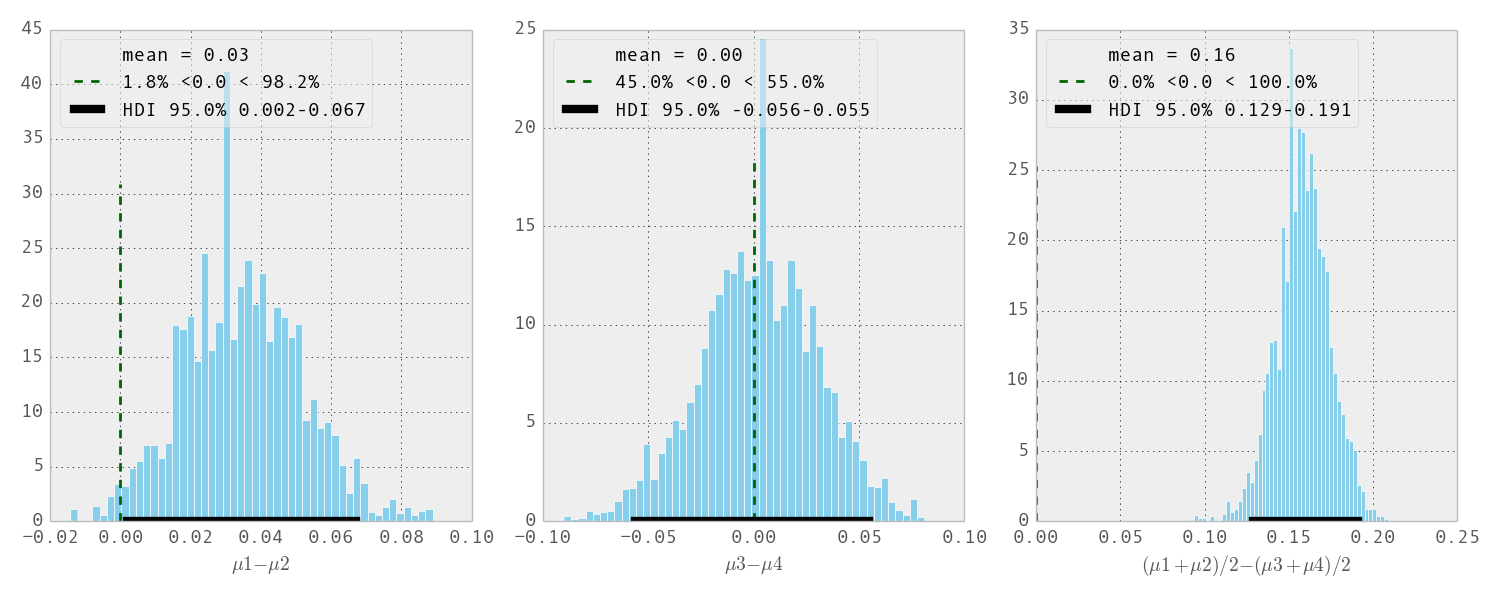
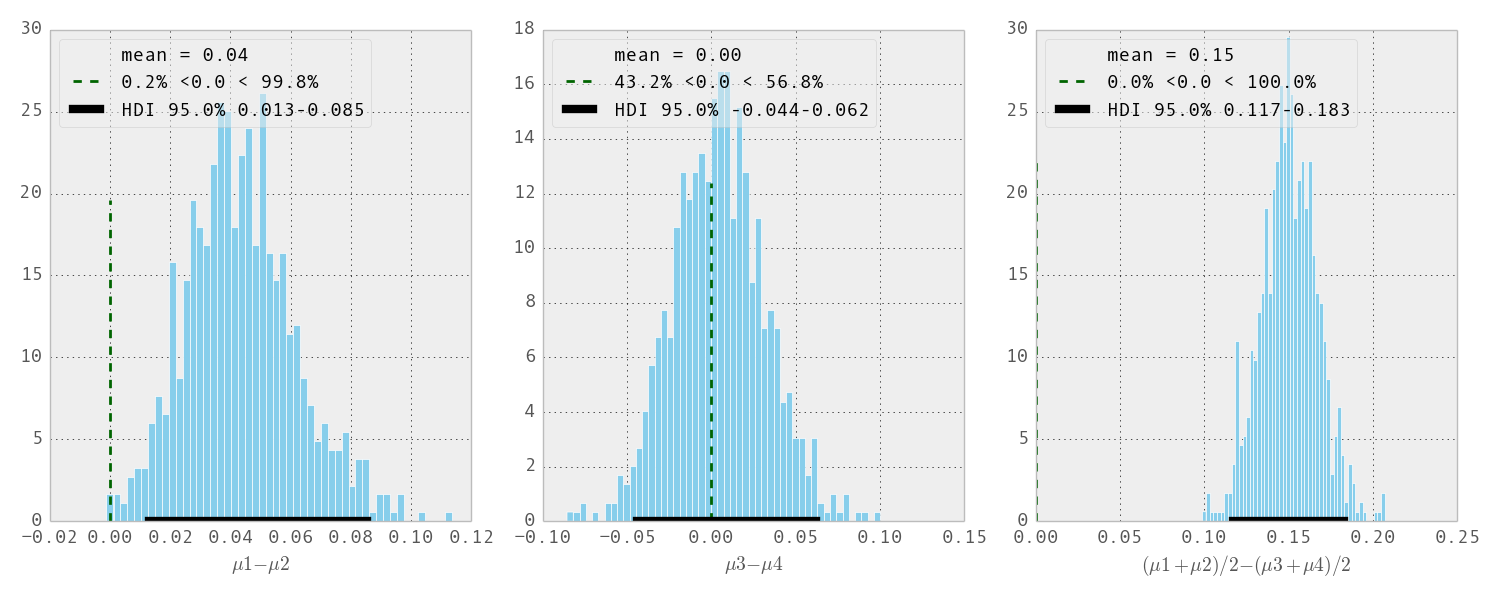
update

diff --git a/09_BernBetaMuKappaPyMC.py b/09_BernBetaMuKappaPyMC.py
@@ -1,11 +1,10 @@
 """
 Bernoulli Likelihood with Hierarchical Prior!
 """
-from __future__ import division
 import numpy as np
 import pymc as pm
 import sys
-from scipy.stats import beta, gamma
+from scipy.stats import beta, binom
 import matplotlib.pyplot as plt
 from plot_post import plot_post
 
@@ -16,6 +15,16 @@ z =  [5, 5, 5]  # Number of heads per coin
 ## Data for figure 9.12
 #N =  [10, 10, 10]  # Number of flips per coin
 #z =  [1, 5, 9]  # Number of heads per coin
+
+## Data for exercise 9.1
+#ncoins = 50
+#nflipspercoin = 5
+#mu_act = .7
+#kappa_act = 20
+#theta_act = beta.rvs(mu_act*kappa_act+1, (1-mu_act)*kappa_act+1, size=ncoins)
+#z = binom.rvs(n=nflipspercoin, p=theta_act, size=ncoins)
+#N = [nflipspercoin] * ncoins
+
 
 # Arrange the data into a more convenient way to feed the PyMC model.
 coin = []  # list/vector index for each coins (from 0 to number of coins)
@@ -40,8 +49,8 @@ with pm.Model() as model:
     y = pm.Bernoulli('y', p=theta[coin], observed=y)
 
 #   Generate a MCMC chain
-    step = pm.Metropolis()
-    trace = pm.sample(5000, step, progressbar=False)
+#    step = pm.Metropolis()
+#    trace = pm.sample(5000, step, progressbar=False)
 #   Restricted models like this could be difficult to sample. This is related 
 #   to the censoring comment in the book. One way to detect that something is 
 #   wrong with the sampling is to compare the autocorrelation plot and the 
@@ -51,24 +60,28 @@ with pm.Model() as model:
 #    step2 = pm.Slice([kappa])
 #    trace = pm.sample(5000, [step1, step2], progressbar=False)
 #    or this (this combination was used to generate the figures)
+    start = pm.find_MAP()
     step1 = pm.Metropolis([theta, mu])
     step2 = pm.NUTS([kappa])
-    trace = pm.sample(5000, [step1, step2], progressbar=False)
+    trace = pm.sample(5000, [step1, step2], start=start, progressbar=False)
 
 ## Check the results.
-
-## Print summary for each trace
-#pm.summary(trace)
-
-## Check for mixing and autocorrelation:
-pm.autocorrplot(trace, vars =[mu, kappa])
-
-## Plot KDE and sampled values for each parameter.
-pm.traceplot(trace)
-
-# Create arrays with the posterior sample
 burnin = 2000  # posterior samples to discard
 thin = 10  # posterior samples to discard
+
+## Print summary for each trace
+#pm.summary(trace[burnin::thin])
+#pm.summary(trace)
+
+## Check for mixing and autocorrelation
+pm.autocorrplot(trace[burnin::thin], vars =[mu, kappa])
+#pm.autocorrplot(trace, vars =[mu, kappa])
+
+## Plot KDE and sampled values for each parameter.
+pm.traceplot(trace[burnin::thin])
+#pm.traceplot(trace)
+
+# Create arrays with the posterior sample
 theta1_sample = trace['theta'][:,0][burnin::thin]
 theta2_sample = trace['theta'][:,1][burnin::thin]
 theta3_sample = trace['theta'][:,2][burnin::thin]

diff --git a/09_FilconPyMC.py b/09_FilconPyMC.py
@@ -1,11 +1,9 @@
 """
 More Hierarchical models. The filtration-condensation experiment.
 """
-from __future__ import division
 import numpy as np
 import pymc as pm
 import sys
-from scipy.stats import beta,  gamma
 import matplotlib.pyplot as plt
 from plot_post import plot_post
 
@@ -47,14 +45,30 @@ for condition in range(0, ncond):
         start = pm.find_MAP()
         step1 = pm.Metropolis([theta, mu])
         step2 = pm.NUTS([kappa])
-        trace = pm.sample(5000, [step1, step2], start=start, progressbar=False)
+        trace = pm.sample(10000, [step1, step2], start=start, progressbar=False)
     trace_per_condition.append(trace)
 
+## Check the results.
+burnin = 2000  # posterior samples to discard
+thin = 10  # posterior samples to discard
 
-mu1_sample = trace_per_condition[0]['mu']
-mu2_sample = trace_per_condition[1]['mu']
-mu3_sample = trace_per_condition[2]['mu']
-mu4_sample = trace_per_condition[3]['mu']
+## Print summary for each trace
+#pm.summary(trace[burnin::thin])
+#pm.summary(trace)
+
+## Check for mixing and autocorrelation
+pm.autocorrplot(trace[burnin::thin], vars =[mu, kappa])
+#pm.autocorrplot(trace, vars =[mu, kappa])
+
+## Plot KDE and sampled values for each parameter.
+pm.traceplot(trace[burnin::thin])
+#pm.traceplot(trace)
+
+# Create arrays with the posterior sample
+mu1_sample = trace_per_condition[0]['mu'][burnin::thin]
+mu2_sample = trace_per_condition[1]['mu'][burnin::thin]
+mu3_sample = trace_per_condition[2]['mu'][burnin::thin]
+mu4_sample = trace_per_condition[3]['mu'][burnin::thin]
 
 
 fig = plt.figure(figsize=(15, 6))
@@ -75,3 +89,4 @@ plot_post(a, xlab=r'$(\mu1+\mu2)/2 - (\mu3+\mu4)/2$', show_mode=False, comp_val=
 plt.tight_layout()
 plt.savefig('Figure_9.16.png')
 plt.show()
+

diff --git a/09_BernBetaMuKappaPyMC_TT.py b/09_BernBetaMuKappaPyMC_TT.py
@@ -1,11 +1,9 @@
 """
 Bernoulli Likelihood with Hierarchical Prior. The Therapeutic Touch example.
 """
-from __future__ import division
 import numpy as np
 import pymc as pm
 import sys
-from scipy.stats import beta, gamma
 import matplotlib.pyplot as plt
 from plot_post import plot_post
 
@@ -42,19 +40,22 @@ with pm.Model() as model:
     trace = pm.sample(10000, [step1, step2], start=start, random_seed=(123), progressbar=False)
 
 ## Check the results.
+burnin = 2000  # posterior samples to discard
+thin = 10  # posterior samples to discard
 
 ## Print summary for each trace
+#pm.summary(trace[burnin::thin])
 #pm.summary(trace)
 
-## Check for mixing and autocorrelation:
-pm.autocorrplot(trace, vars =[mu, kappa])
+## Check for mixing and autocorrelation
+pm.autocorrplot(trace[burnin::thin], vars =[mu, kappa])
+#pm.autocorrplot(trace, vars =[mu, kappa])
 
 ## Plot KDE and sampled values for each parameter.
+pm.traceplot(trace[burnin::thin])
 #pm.traceplot(trace)
 
 # Create arrays with the posterior sample
-burnin = 2000  # posterior samples to discard
-thin = 10  # posterior samples to discard
 theta1_sample = trace['theta'][:,0][burnin::thin]
 theta28_sample = trace['theta'][:,27][burnin::thin]
 mu_sample = trace['mu'][burnin::thin]
